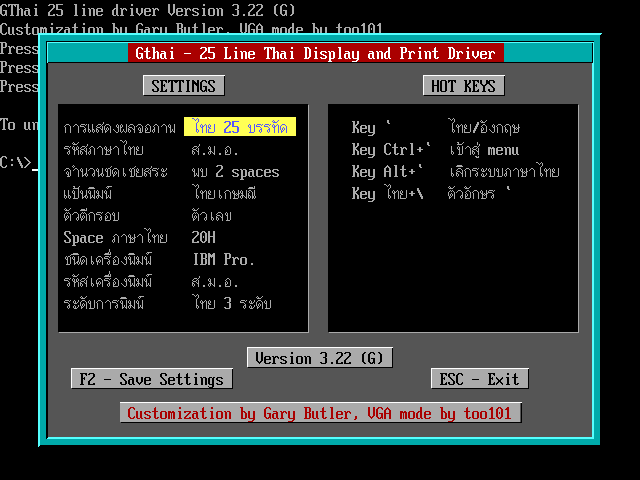
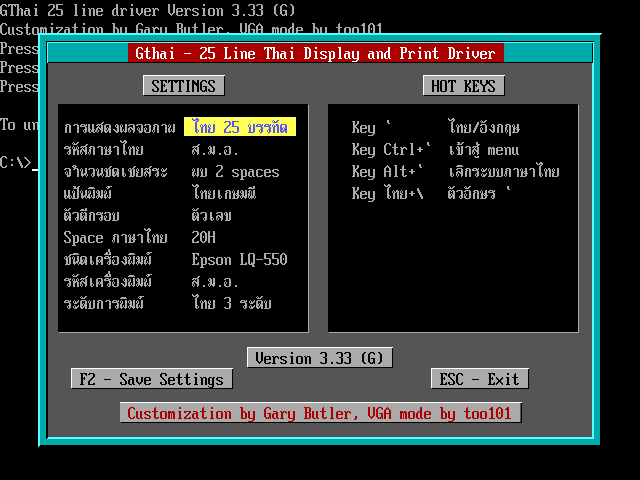
Version 3.34: updated Thai font (GTHAI2-19.FON) and new VGA screenshots
Claude-Session: https://claude.ai/code/session_01TnECw6puPSX59uYXsC5qW6

diff --git a/tests/verify_box_draw.py b/tests/verify_box_draw.py
@@ -40,14 +40,15 @@ def run(start, setup=None, **regs):
     for plane in m.planes: h.update(bytes(plane))
     return h.hexdigest()[:16], sum(1 for p in m.planes for b in p if b)
 
-# Digest of (planes) recorded from the build before DRAW_BOX was introduced.
+# Digest of (planes) recorded from the build before DRAW_BOX was introduced, using the
+# current fonts/GTHAI*-19.FON.  Re-record from that build when the fonts or version text change.
 GOLDEN = {
-    'GTHAI': {'PANEL': '037cecc986804430', 'CANT_UNLOAD': 'c1e15e6d2c352413',
-              'OK_TO_UNLOAD': '74a2137945f2a0d6', 'CANT_UNLOAD_SKIP3': '07baa0734df26422',
-              'OK_SKIP2': '003665d43bf06148', 'OK_SKIP3': 'b78411db034413d0'},
-    'GTHAI386': {'PANEL': 'c80013f2593a81ed', 'CANT_UNLOAD': 'c1e15e6d2c352413',
-                 'OK_TO_UNLOAD': '74a2137945f2a0d6', 'CANT_UNLOAD_SKIP3': '07baa0734df26422',
-                 'OK_SKIP2': '003665d43bf06148', 'OK_SKIP3': 'b78411db034413d0'},
+    'GTHAI': {'PANEL': '5b24b5053be30916', 'CANT_UNLOAD': '81b14e2b79250ed1',
+              'OK_TO_UNLOAD': '9a0f32e24bd152be', 'CANT_UNLOAD_SKIP3': 'bf129eb31d4ae393',
+              'OK_SKIP2': '586219842b827ff2', 'OK_SKIP3': '81bfc8c5ba08ce9b'},
+    'GTHAI386': {'PANEL': '1bea47bf91763976', 'CANT_UNLOAD': '81b14e2b79250ed1',
+                 'OK_TO_UNLOAD': '9a0f32e24bd152be', 'CANT_UNLOAD_SKIP3': 'bf129eb31d4ae393',
+                 'OK_SKIP2': '586219842b827ff2', 'OK_SKIP3': '81bfc8c5ba08ce9b'},
 }
 cases = ('PANEL', 'CANT_UNLOAD', 'OK_TO_UNLOAD', 'CANT_UNLOAD_SKIP3', 'OK_SKIP2', 'OK_SKIP3')
 got = {name: run(name, ax=0x1000) for name in cases}

diff --git a/README.md b/README.md
@@ -1,6 +1,6 @@
 # GThai VGA
 
-ไดรเวอร์ภาษาไทยสำหรับ DOS รุ่น **3.33** ใช้ VGA 640×480 สี 16 สี และฟอนต์ 8×19 จุด มีสองรุ่นจาก source เดียวกัน: รุ่น 8086 และรุ่น 386 ขึ้นไป
+ไดรเวอร์ภาษาไทยสำหรับ DOS รุ่น **3.34** ใช้ VGA 640×480 สี 16 สี และฟอนต์ 8×19 จุด มีสองรุ่นจาก source เดียวกัน: รุ่น 8086 และรุ่น 386 ขึ้นไป
 
 ## ประวัติและเครดิต
 
@@ -37,7 +37,7 @@ The revised fonts combine and adapt glyphs from **AxTHAI**, **ThaiPro**, and **A
 
 Display options include English, Thai 8-line mode without automatic vowel/tone composition, and Thai 25-line mode with composition. The settings dialog supports the taller fonts, and the Thai cursor spans the full character height.
 
-Both executables provide the same features and fonts; load only one at a time. GTHAI386.COM additionally uses 32-bit moves and ORs for glyph copying and vowel/tone composition, `REPE CMPSD` for the changed-screen check, and a single `SHR reg,4` in colour setup; the rest, including all VGA output, is identical. Version 3.33 shrinks the resident driver by 867 bytes by sharing the dialog drawing code without changing its output. Version 3.32 fixes popup dialogs inheriting interrupted batch state and protects individual VGA glyph updates from interrupts. Version 3.31 reduces repeated VGA register setup during Thai 25-line screen updates in both builds, while the 386 build also compares text using `CMPSD`. The 386 build remains a 16-bit DOS real-mode program, uses 32-bit instructions for glyph copying and composition, and preserves the interrupted program’s upper register bits. VGA drawing and latch scrolling remain byte-based. In the version 3.30 DOSBox-X comparison on the same emulated 386, it reduced Thai composition time by **23.1%** and composed Thai drawing time by **9.2%**. These are emulator microbenchmarks, not real-hardware measurements; see the [benchmark report](docs/BENCHMARK.md).
+Both executables provide the same features and fonts; load only one at a time. GTHAI386.COM additionally uses 32-bit moves and ORs for glyph copying and vowel/tone composition, `REPE CMPSD` for the changed-screen check, and a single `SHR reg,4` in colour setup; the rest, including all VGA output, is identical. Version 3.34 updates the Thai font (`GTHAI2-19.FON`): bolder glyphs and a corrected mai taikhu position. Version 3.33 shrinks the resident driver by 867 bytes by sharing the dialog drawing code without changing its output. Version 3.32 fixes popup dialogs inheriting interrupted batch state and protects individual VGA glyph updates from interrupts. Version 3.31 reduces repeated VGA register setup during Thai 25-line screen updates in both builds, while the 386 build also compares text using `CMPSD`. The 386 build remains a 16-bit DOS real-mode program, uses 32-bit instructions for glyph copying and composition, and preserves the interrupted program’s upper register bits. VGA drawing and latch scrolling remain byte-based. In the version 3.30 DOSBox-X comparison on the same emulated 386, it reduced Thai composition time by **23.1%** and composed Thai drawing time by **9.2%**. These are emulator microbenchmarks, not real-hardware measurements; see the [benchmark report](docs/BENCHMARK.md).
 
 ## ความสามารถ
 
@@ -45,6 +45,7 @@ Both executables provide the same features and fonts; load only one at a time. G
 - ผสมพยัญชนะ สระ และวรรณยุกต์ โดยยกวรรณยุกต์เมื่อมีสระบน
 - ตรวจเส้นกรอบและแรเงา ทั้งแนวนอนและแนวตั้ง ใช้สีช่องข้างเคียงช่วยตรวจเส้นตั้ง
 - หน้าตั้งค่ารองรับฟอนต์ 8×19 จุด และ cursor ไทยสูงเต็มตัวอักษร
+- รุ่น 3.34 ปรับฟอนต์ไทย `GTHAI2-19.FON` ให้ตัวหนาขึ้นและแก้ตำแหน่งไม้ไต่คู้ (็)
 - รุ่น 3.33 ลดขนาดโปรแกรมที่ค้างในหน่วยความจำลง 867 ไบต์โดยรวมโค้ดวาดกรอบและข้อความของเมนู ภาพที่แสดงเหมือนเดิมทุกไบต์
 - รุ่น 3.32 ยกเลิกสถานะวาดเป็นชุดก่อนเปิดหน้าต่าง และกัน interrupt ระหว่างเขียนอักษรหนึ่งตัว เพื่อป้องกันข้อความปุ่มเสียเมื่อเปิดหน้าต่างแทรกการวาดจอ
 
@@ -60,7 +61,7 @@ Both executables provide the same features and fonts; load only one at a time. G
 
 <a href="docs/images/norton-commander-ega.png"><img src="docs/images/norton-commander-ega.png" alt="Norton Commander ในโหมด EGA 640x350 ฟอนต์ 8x14"></a>
 
-**GTHAI VGA — 640×480, ฟอนต์ 8×19 จุด** (ภาพจาก GThai 3.28)
+**GTHAI VGA — 640×480, ฟอนต์ 8×19 จุด** (ภาพจาก GThai 3.33 ฟอนต์ไทยชุดใหม่)
 
 <a href="docs/images/norton-commander-vga.png"><img src="docs/images/norton-commander-vga.png" alt="Norton Commander ในโหมด VGA 640x480 ฟอนต์ 8x19"></a>
 
@@ -70,7 +71,7 @@ Both executables provide the same features and fonts; load only one at a time. G
 
 <a href="docs/images/settings-ega.png"><img src="docs/images/settings-ega.png" alt="หน้าตั้งค่า GThai 3.12 ในโหมด EGA"></a>
 
-**GTHAI VGA — ฟอนต์ 8×19 จุด** (ภาพจาก GThai 3.22)
+**GTHAI VGA — ฟอนต์ 8×19 จุด** (ภาพจาก GThai 3.33 ฟอนต์ไทยชุดใหม่)
 
 <a href="docs/images/settings-vga.png"><img src="docs/images/settings-vga.png" alt="หน้าตั้งค่า GThai ในโหมด VGA 640x480 ฟอนต์ 8x19"></a>
 

diff --git a/CHANGES.md b/CHANGES.md
@@ -1,6 +1,6 @@
 # สรุปการปรับปรุง GThai VGA
 
-รุ่นปัจจุบัน: **3.33** — `GTHAI.COM` สำหรับ 8086 ขึ้นไป และ `GTHAI386.COM` สำหรับ 386 ขึ้นไป ทั้งสองรุ่นใช้ VGA และฟอนต์ชุดเดียวกัน
+รุ่นปัจจุบัน: **3.34** — `GTHAI.COM` สำหรับ 8086 ขึ้นไป และ `GTHAI386.COM` สำหรับ 386 ขึ้นไป ทั้งสองรุ่นใช้ VGA และฟอนต์ชุดเดียวกัน
 
 ## การแสดงผลและฟอนต์
 
@@ -80,3 +80,9 @@
 - รวมโค้ดวาดกรอบข้อความ 3 มิติที่ซ้ำกัน 9 ชุด (แผงควบคุม 6 กรอบ และหน้าจอ unload 3 กรอบ) เป็นรูทีน `DRAW_BOX` เดียวกับตารางพารามิเตอร์ `BOXDEF` และรวมลำดับ "ตั้งตำแหน่ง → แสดงข้อความ" ที่ซ้ำ 18 ชุดเป็น `SHOW_MSG` ขนาดตัวโปรแกรมที่ค้างในหน่วยความจำลดลง 867 ไบต์ทั้งสองรุ่น (GTHAI 28,638 → 27,771 และ GTHAI386 28,674 → 27,807 ไบต์ในการ build ทดสอบ) ไม่แตะเส้นทางวาดตัวอักษร
 - เพิ่ม `tests/verify_box_draw.py` รัน PANEL และหน้าจอ unload จริงใน Unicorn แล้วเทียบ digest ของ VGA plane กับรุ่นก่อนรวมโค้ด ผลเหมือนกันทุกไบต์
 - เพิ่ม profile `scenarios` ใน `tools/benchmark_dosbox.py` และ `tools/bench_scenarios.py` (หน้าจอ Norton Commander, ไทยผสมสระ, ช่องว่าง, แก้ทีละช่อง, ขยับ cursor, เลื่อนจอ) พร้อม `tests/verify_benchmark_scenarios.py` และเพิ่มใน `run_all.py` ไม่เปลี่ยนไดรเวอร์
+
+## 3.34 — ปรับฟอนต์ไทย
+
+- ปรับ `fonts/GTHAI2-19.FON` (85 glyph ตั้งแต่ 0xA1 ขึ้นไป) ให้ตัวอักษรไทยหนาขึ้นและแก้ตำแหน่งไม้ไต่คู้ (็) ฟอนต์ถูกฝังใน `GTHAI.COM` และ `GTHAI386.COM` ขนาดโปรแกรมไม่เปลี่ยน
+- เปลี่ยน screenshot ของ GTHAI VGA (`docs/images/settings-vga.png` และ `docs/images/norton-commander-vga.png`)
+- `tests/verify_box_draw.py` ผูกค่าอ้างอิงกับฟอนต์และเลขรุ่น จึงบันทึกค่าใหม่จากรุ่นก่อนรวมโค้ดที่ใช้ฟอนต์และเลขรุ่นเดียวกัน
